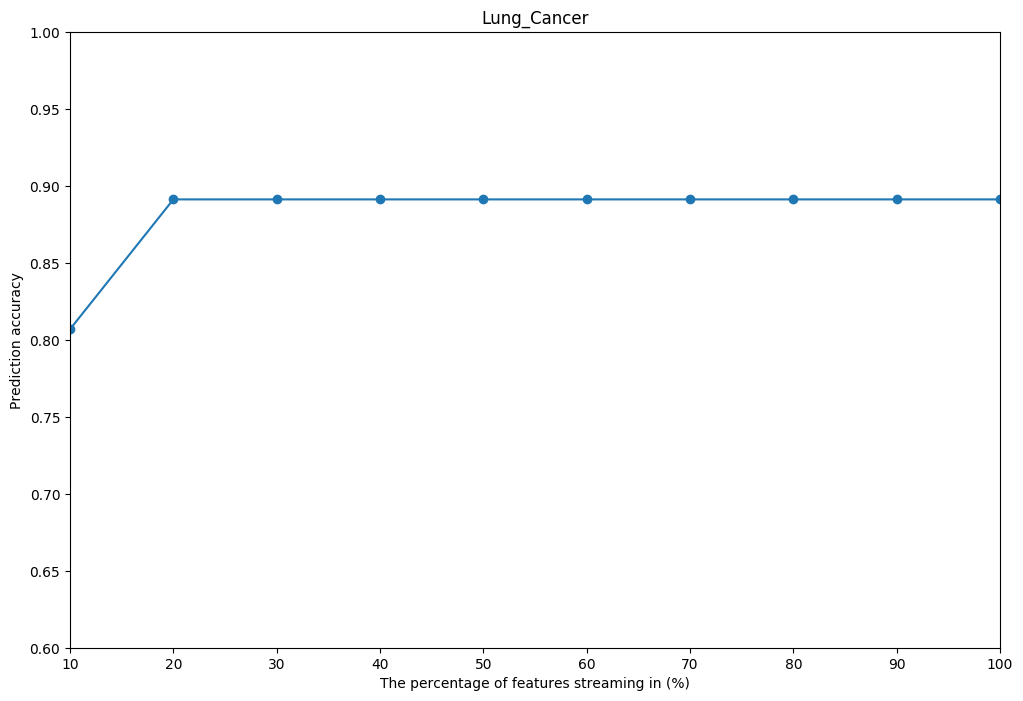
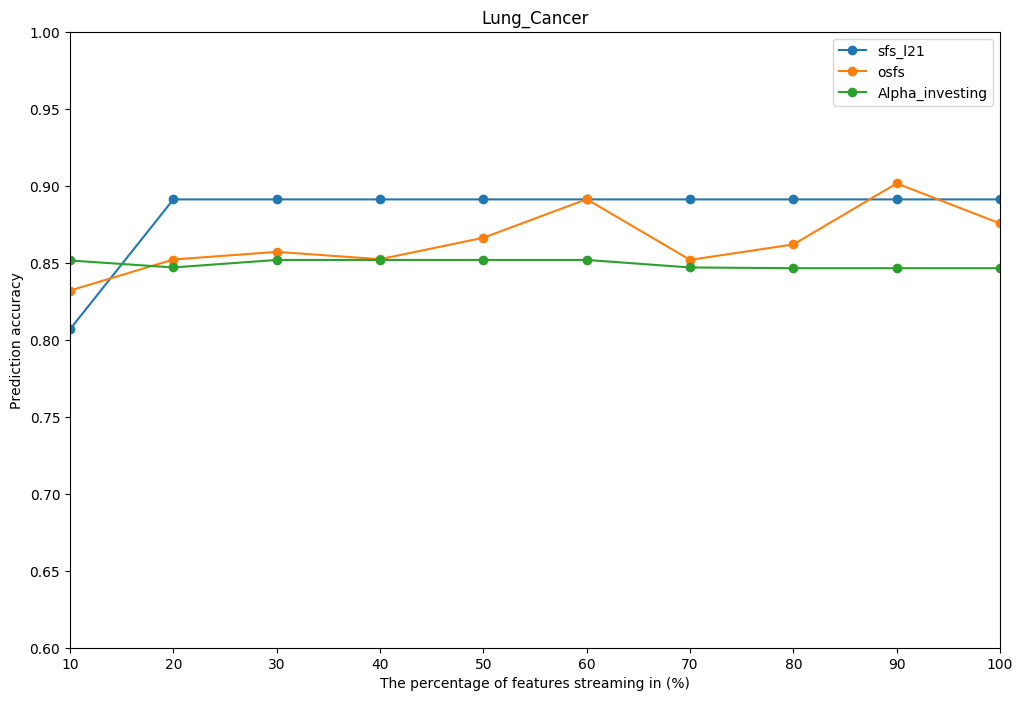
update all_result/

diff --git a/datas/gene/all_result/streaming/draw.py b/datas/gene/all_result/streaming/draw.py
@@ -1,0 +1,76 @@
+import pandas as pd
+import matplotlib.pyplot as plt
+
+def read_output_streaming_cls_nfs(fname):
+    res_cls = pd.Series(())
+    res_nfs = pd.Series(())
+    with open(fname, 'r') as f:
+        epsilon = 0.0
+        for line in f:
+            line_list = line.strip().split()
+            if line_list[0] == 'after':
+                epsilon = float(line_list[-1][:-1])
+            if line_list[0] == 'cross':
+                res_cls[epsilon] = float(line_list[-1])
+            if line_list[0] == 'size' and line_list[2] == 'data':
+                res_nfs[epsilon] = int(line_list[-1][:-1])
+    res_cls.name = 'prediction accuracy'
+    res_nfs.name = 'number of selected features'
+    return res_cls.drop(0.0), res_nfs.drop(0.0)
+
+def read_output_streaming(fname):
+    cls = pd.Series(())
+    with open(fname, 'r') as f:
+        percentage = "1000"
+        for line in f:
+            line_list = line.strip().split()
+            if line_list[0] == 'after':
+                percentage = line_list[3][:-1]
+            if line_list[0] == 'cross':
+                cls[percentage] = float(line_list[-1])
+    # cls.name = 'prediction accuracy'
+    return cls.drop('1000')
+
+def read_output_streaming_of_one_dataset(dataset_name):
+    cls_l21 = read_output_streaming("../streaming_l21/%s_cls.output_streaming"%dataset_name)
+    cls_l21.name = 'sfs_l21'
+    cls_osfs = read_output_streaming("../streaming_osfs/%s_cls.output_streaming_osfs"%dataset_name)
+    cls_osfs.name = 'osfs'
+    cls_Alpha_investing = read_output_streaming("../streaming_Alpha_investing/%s_cls.output_streaming_Alpha_investing"%dataset_name)
+    cls_Alpha_investing.name = 'Alpha_investing'
+    cls = pd.concat((cls_l21, cls_osfs, cls_Alpha_investing), axis=1)
+    return cls
+    
+def draw(cls, fname):
+    fig, ax = plt.subplots(1, 1)
+    cls.plot(ax=ax, style='o-', ylim=(0.6, 1.0))
+    #nfs.plot(ax=axes[1], style='*-', ylim=(0, 90))
+    ax.set_ylabel('Prediction accuracy')
+    ax.set_xlabel('The percentage of features streaming in (%)')
+    ax.set_title(fname)
+
+    fig.set_size_inches(12, 8)
+    fig.savefig('%s.png'%fname, bbox_inches='tight')
+    plt.close()
+
+def get_datasets_name():
+    datasets_name = []
+    with open('../all_attribute.csv', 'r') as f:
+        f.readline()
+        for line in f:
+            datasets_name.append(line.split(',')[0])
+    return datasets_name
+
+def main():
+    datasets_name = get_datasets_name()
+    for dataset_name in datasets_name:
+        print "draw %s"%dataset_name
+        cls = read_output_streaming_of_one_dataset(dataset_name)
+        draw(cls, dataset_name)
+        print "finish %s"%dataset_name
+
+
+if __name__ == '__main__':
+    main()
+    print "Done!"
+    

diff --git a/datas/gene/all_result/streaming/README.md b/datas/gene/all_result/streaming/README.md
@@ -1,0 +1,16 @@
+## streaming features selection procedure comparsion
+
+<center >
+<img src="https://github.com/zhonghuawu/design/raw/master/datas/gene/all_result/streaming/TOX_171.png">
+<img src="https://github.com/zhonghuawu/design/raw/master/datas/gene/all_result/streaming/lymphoma.png">
+<img src="https://github.com/zhonghuawu/design/raw/master/datas/gene/all_result/streaming/SMK_CAN_187.png">
+<img src="https://github.com/zhonghuawu/design/raw/master/datas/gene/all_result/streaming/GLIOMA.png" >
+<img src="https://github.com/zhonghuawu/design/raw/master/datas/gene/all_result/streaming/ALLAML.png">
+<img src="https://github.com/zhonghuawu/design/raw/master/datas/gene/all_result/streaming/GLI_85.png"> 
+<img src="https://github.com/zhonghuawu/design/raw/master/datas/gene/all_result/streaming/lung.png">
+<img src="https://github.com/zhonghuawu/design/raw/master/datas/gene/all_result/streaming/colon.png">
+<img src="https://github.com/zhonghuawu/design/raw/master/datas/gene/all_result/streaming/Prostate_GE.png">
+<img src="https://github.com/zhonghuawu/design/raw/master/datas/gene/all_result/streaming/Lung_Cancer.png">
+<img src="https://github.com/zhonghuawu/design/raw/master/datas/gene/all_result/streaming/SRBCT.png">
+<img src="https://github.com/zhonghuawu/design/raw/master/datas/gene/all_result/streaming/DLBCL.png">
+</center>
